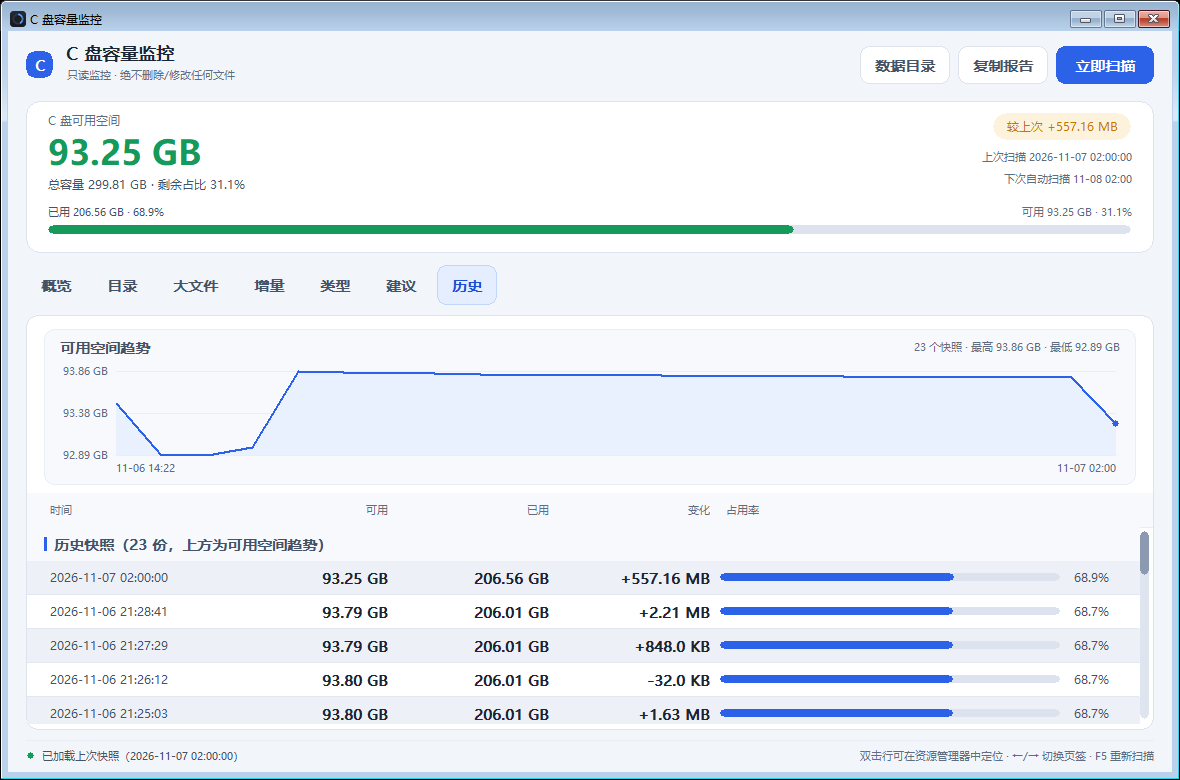
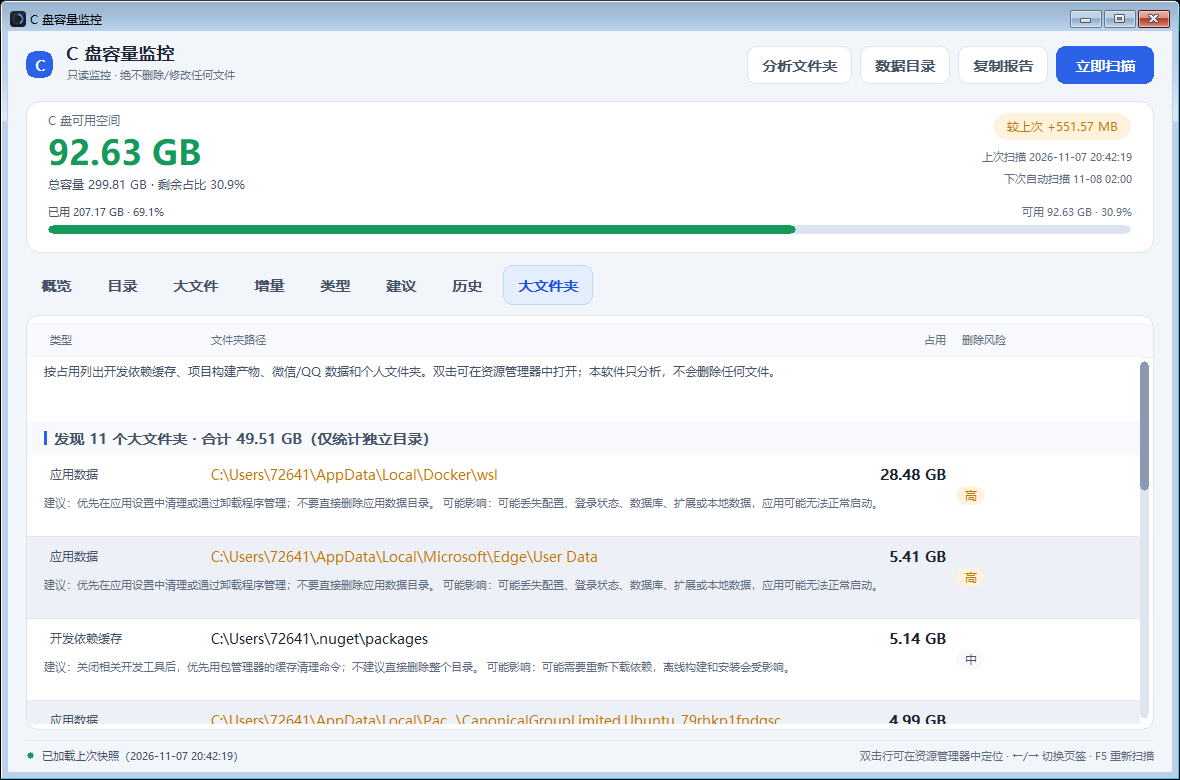
fix: 修正裁剪发布的 JSON 反射告警与卷影副本盘符限定
- ReportJson：显式指定 TypeInfoResolver = JsonCtx.Default（源生成元数据，
  不用反射），并对 IL2026 加 UnconditionalSuppressMessage，
  修复单文件裁剪发布时的 trim 告警。
- SystemUsage.QueryShadow：driveSpec 提到 try 之外，vssadmin 兜底分支同样
  按盘符限定；非法盘符返回错误而不是抛异常。
- FolderAnalyzer：磁盘上的真实目录名加 lang:keep 标记，
  tools/check_lang.py 同步识别该标记，避免被当成界面文案误报。
- build/publish.ps1：发布前先结束正在运行的实例，避免文件被占用。
- docs/plan.md：页签数 7 → 8；补充大文件夹分析页截图。

diff --git a/CDiskWatch/src/SystemUsage.cs b/CDiskWatch/src/SystemUsage.cs
@@ -42,12 +42,16 @@ public static class SystemUsage
     public static ShadowInfo QueryShadow(string drive = "C")
     {
         var info = new ShadowInfo();
+        // driveSpec 必须在 try 之外可见：vssadmin 兜底分支同样需要按盘符限定
+        char driveLetter = string.IsNullOrWhiteSpace(drive) ? 'C' : char.ToUpperInvariant(drive.Trim()[0]);
+        if (driveLetter < 'A' || driveLetter > 'Z')
+        {
+            info.Error = "Invalid drive letter.";
+            return info;
+        }
+        string driveSpec = driveLetter + ":";
         try
         {
-            char driveLetter = string.IsNullOrWhiteSpace(drive) ? 'C' : char.ToUpperInvariant(drive.Trim()[0]);
-            if (driveLetter < 'A' || driveLetter > 'Z')
-                throw new ArgumentException("Invalid drive letter.", nameof(drive));
-            string driveSpec = driveLetter + ":";
             string ps = "[Console]::OutputEncoding=[Text.Encoding]::UTF8; " +
                         "$letter = '" + driveSpec + "'; " +
                         "$v = Get-CimInstance Win32_Volume -Filter \"DriveLetter='$letter'\" -ErrorAction Stop; " +

diff --git a/CDiskWatch/src/ReportJson.cs b/CDiskWatch/src/ReportJson.cs
@@ -225,10 +225,16 @@ public static class ReportJsonBuilder
     }
 
     /// <summary>报告同时给人看和给脚本看，中文不转义成 Unicode 转义序列。</summary>
+    /// <remarks>resolver 就是源生成的 <see cref="JsonCtx"/>（无反射），因此裁剪发布同样安全；
+    /// 分析器无法识别这一点会报 IL2026，这里显式豁免。</remarks>
     static readonly JsonSerializerOptions Opt = new(JsonCtx.Default.Options)
     {
         Encoder = System.Text.Encodings.Web.JavaScriptEncoder.UnsafeRelaxedJsonEscaping,
+        TypeInfoResolver = JsonCtx.Default,   // 仍走源生成的元数据（无反射）
     };
 
+    [System.Diagnostics.CodeAnalysis.UnconditionalSuppressMessage(
+        "Trimming", "IL2026",
+        Justification = "TypeInfoResolver is the source-generated JsonCtx (no reflection), so trimming is safe.")]
     public static string Serialize(ReportJson r) => JsonSerializer.Serialize(r, Opt);
 }

diff --git a/tools/check_lang.py b/tools/check_lang.py
@@ -121,7 +121,11 @@ def main():
                     unknown.append(rel + ': ' + k)
             if os.path.normpath(rel) in SKIP_CJK:
                 continue
+            lines = src.split(chr(10))
             for ln, text in literals(src):
+                # 行尾标记 lang:keep = 这是「磁盘上的真实文件夹名」等数据，不是界面文案
+                if ln - 1 < len(lines) and 'lang:keep' in lines[ln - 1]:
+                    continue
                 if is_cjk(text):
                     cjk_leaks.append('%s:%d  %s' % (rel, ln, text))
 

diff --git a/CDiskWatch/src/FolderAnalyzer.cs b/CDiskWatch/src/FolderAnalyzer.cs
@@ -28,7 +28,7 @@ public static class FolderAnalyzer
     };
     static readonly HashSet<string> ChatFolderNames = new(StringComparer.OrdinalIgnoreCase)
     {
-        "WeChat Files", "xwechat_files", "Tencent Files", "QQ Files", "微信 Files"
+        "WeChat Files", "xwechat_files", "Tencent Files", "QQ Files", "微信 Files"  // lang:keep 磁盘上的真实目录名
     };
 
     public static FolderRisk RiskOf(FolderKind kind) => kind switch

diff --git a/docs/plan.md b/docs/plan.md
@@ -10,7 +10,7 @@
 
 | 项 | v1 方案 | **最终决策** | 落地情况 |
 |---|---|---|---|
-| UI 框架 | WinForms | ❌ → **纯 Win32 自绘** | ✅ `MainWindow.cs` 7 页签 GDI 自绘 |
+| UI 框架 | WinForms | ❌ → **纯 Win32 自绘** | ✅ `MainWindow.cs` 8 页签 GDI 自绘 |
 | 管理员权限 | 可选 | ✅ 需要（卷影副本/系统文件归因） | ✅ 运行时 `ShellExecuteEx("runas")` 自提权 |
 | 历史基线 | 等明天自然产生 | ✅ **立即跑一次全盘做基线** | ✅ `history\baseline.snap` |
 | 托盘显示 | GB 数字 | ✅ **GB + 百分比** | ✅ `C: 可用 93.50 GB · 31%` |
@@ -53,7 +53,7 @@
 CDiskWatch.exe（单进程单 exe，12 MB）
 ├─ Program.cs      单实例 Mutex / 自提权 / 消息循环 / CLI(--scan --report --baseline --selftest)
 ├─ Tray.cs         托盘图标（按占用率变色）+ 气泡 + 右键菜单
-├─ MainWindow.cs   7 页签自绘面板（双缓冲 GDI）
+├─ MainWindow.cs   8 页签自绘面板（双缓冲 GDI）
 ├─ Monitor.cs      调度：30s 空间探针 / 每日 02:00 全盘扫描 / 派生数据
 └─ 核心层（无 UI 依赖，CLI 与托盘共用）
    ├─ Scanner.cs      原生 FindFirstFile/FindNextFile 全盘扫描器（每文件零分配）
@@ -172,7 +172,7 @@ CDiskWatch.exe（单进程单 exe，12 MB）
 | M1 | 原生全盘扫描器 + 分类 + 系统占用 + CLI 报告 | ✅ |
 | M2 | 快照仓库 + 基线 + 日对比（目录/类别/文件三级） | ✅ |
 | M3 | 预警引擎 + 删除建议引擎 | ✅ |
-| M4 | 托盘 + 7 页签自绘面板（含 Top 100 大文件 / Top 20 增量文件夹） | ✅ |
+| M4 | 托盘 + 8 页签自绘面板（含 Top 100 大文件 / Top 20 增量文件夹） | ✅ |
 | M5 | 只读守卫、自检、图标、单文件发布、截图核验 | ✅ |
 | M6（可选） | USN 增量追踪（秒级探测） | ⏸ 未做（12~40 秒的日扫描已足够） |
 
